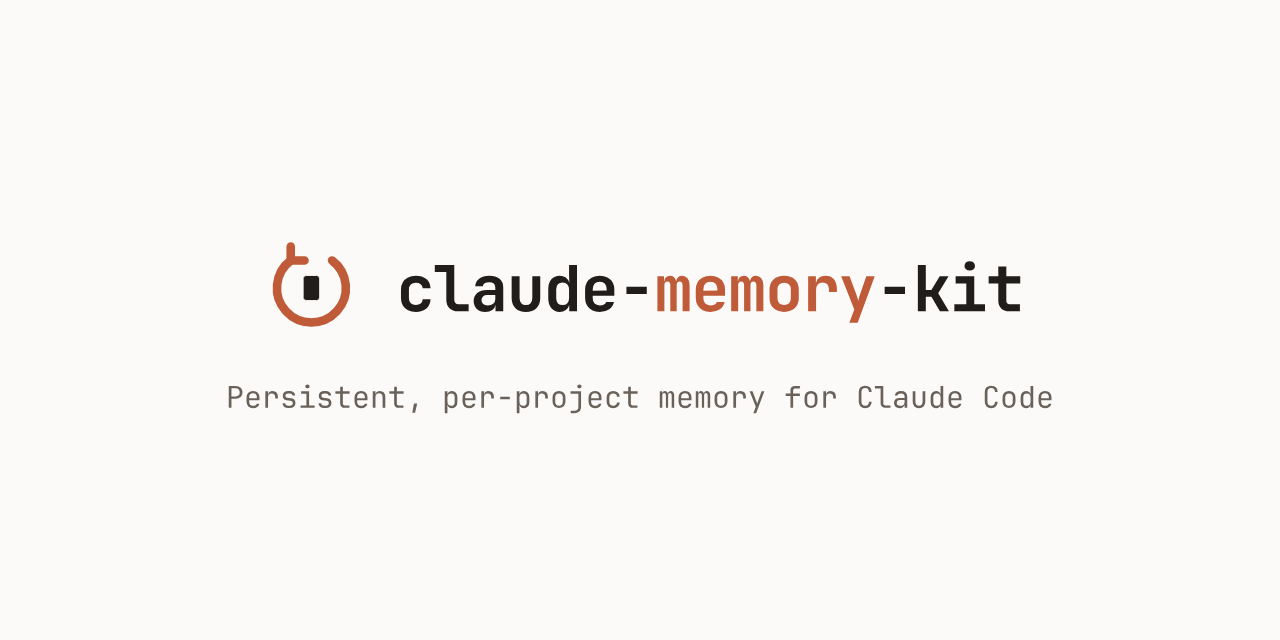
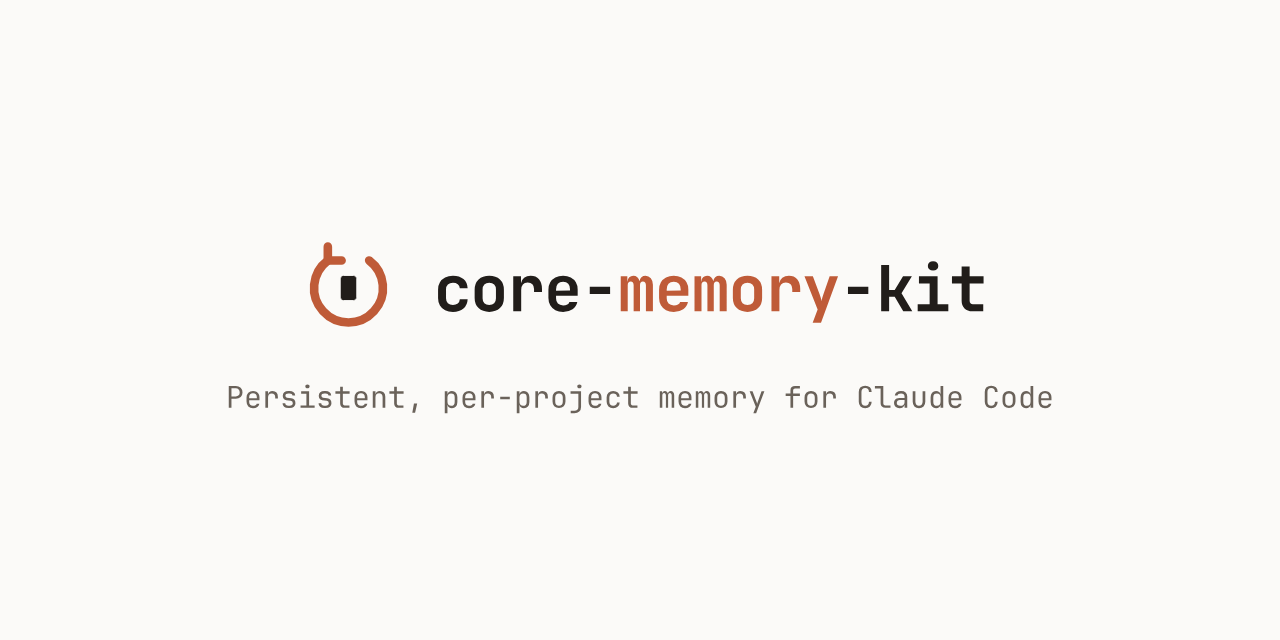
assets: swap in the core-memory-kit rebrand (wordmark + og-image); back up the old ones
The 4 brand assets that changed in the rename get their core-memory-kit versions: the README-header wordmark (light + dark) + the social-share og-image (png + svg). The claude-memory-kit-branded originals are backed up under archive/assets-pre-rebrand-2026-07-15/ (only the 4 that changed — the favicons + logo-restore marks were unchanged by the rebrand). README refs are unchanged (same filenames), so they now render the new mark automatically. The docs/public/*.html logo-scratch page is gitignored (untracked); its space-in-filename is why the corpus sweep's git-grep-l skipped it — a noted sweep-script gap, but harmless since it never ships.

Changed region(s): [[0.1875, 0.375, 0.8125, 0.5312]]

diff --git a/archive/assets-pre-rebrand-2026-07-15/README.md b/archive/assets-pre-rebrand-2026-07-15/README.md
@@ -1,0 +1,15 @@
+# Pre-rebrand assets (2026-07-15)
+
+The `claude-memory-kit`-branded versions of the 4 brand assets that changed in the
+`core-memory-kit` rename (Task 195, ADR-0021), backed up here before the swap.
+
+Only these 4 files actually changed in the rebrand:
+
+- `wordmark.svg` / `wordmark-dark.svg` — the README header wordmark (the letterforms read "claude-memory-kit")
+- `og-image.png` / `og-image.svg` — the social-share card
+
+The favicons + `logo-restore*` marks were unchanged by the rebrand (the restore
+icon + palette carried over), so they are not backed up here — the live copies in
+`docs/public/assets/` are byte-identical to their pre-rebrand versions.
+
+The current `core-memory-kit` assets are in `docs/public/assets/`.